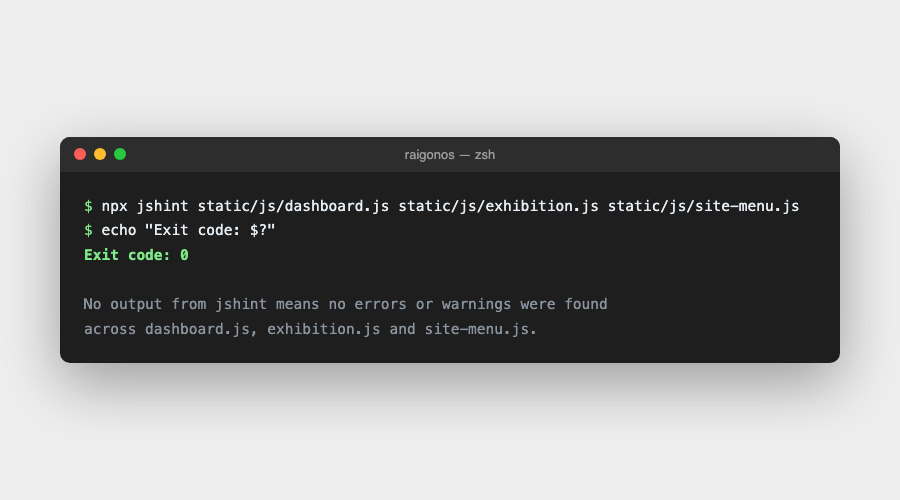
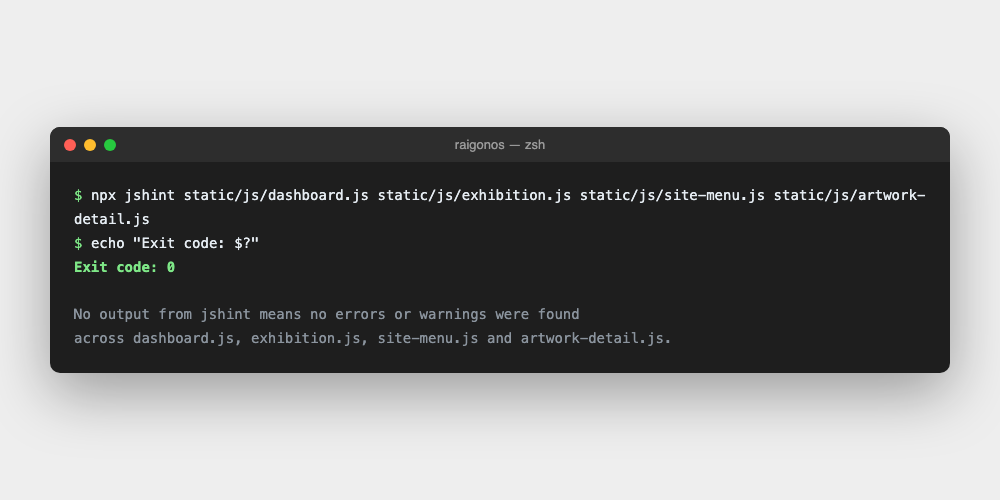
artwork_detail: move the arrow-key nav script to static/js/
It was real navigation logic sitting inline in the template, unlike the
tiny inline scripts in <head> that exist specifically to avoid a
theme-flash before first paint. Linted clean with the other three JS
files (0 errors, 0 warnings).

Changed region(s): [[0.0311, 0.24, 0.9644, 0.75]]

diff --git a/gallery/templates/gallery/artwork_detail.html b/gallery/templates/gallery/artwork_detail.html
@@ -1,4 +1,5 @@
 {% extends 'base.html' %}
+{% load static %}
 
 {% block body_class %}public-theme{% endblock %}
 
@@ -53,26 +54,7 @@
 {% endblock %}
 
 {% block extra_js %}
-  <script>
-    // Left / right arrow keys step through the Collection.
-    document.addEventListener('keydown', function (event) {
-      var link;
-
-      if (event.altKey || event.ctrlKey || event.metaKey || event.shiftKey) {
-        return;
-      }
-
-      if (event.key === 'ArrowLeft') {
-        link = document.querySelector('.artwork-arrow-prev');
-      } else if (event.key === 'ArrowRight') {
-        link = document.querySelector('.artwork-arrow-next');
-      }
-
-      if (link) {
-        window.location.href = link.href;
-      }
-    });
-  </script>
+  <script src="{% static 'js/artwork-detail.js' %}"></script>
 {% endblock %}
 
 {% block path_bar %}

diff --git a/static/js/artwork-detail.js b/static/js/artwork-detail.js
@@ -1,0 +1,18 @@
+// Left / right arrow keys step through the Collection.
+document.addEventListener('keydown', function (event) {
+  var link;
+
+  if (event.altKey || event.ctrlKey || event.metaKey || event.shiftKey) {
+    return;
+  }
+
+  if (event.key === 'ArrowLeft') {
+    link = document.querySelector('.artwork-arrow-prev');
+  } else if (event.key === 'ArrowRight') {
+    link = document.querySelector('.artwork-arrow-next');
+  }
+
+  if (link) {
+    window.location.href = link.href;
+  }
+});

diff --git a/TESTING.md b/TESTING.md
@@ -111,7 +111,7 @@ Linted with [JSHint](https://jshint.com) (`v2.13.6`, run via `npx jshint`)
 against every custom JS file:
 
 ```bash
-npx jshint static/js/dashboard.js static/js/exhibition.js static/js/site-menu.js
+npx jshint static/js/dashboard.js static/js/exhibition.js static/js/site-menu.js static/js/artwork-detail.js
 ```
 
 | File | Result |
@@ -119,6 +119,7 @@ npx jshint static/js/dashboard.js static/js/exhibition.js static/js/site-menu.js
 | `static/js/dashboard.js` | 0 errors, 0 warnings |
 | `static/js/exhibition.js` | 0 errors, 0 warnings |
 | `static/js/site-menu.js` | 0 errors, 0 warnings |
+| `static/js/artwork-detail.js` | 0 errors, 0 warnings |
 
 ![JSHint run, exit code 0](documentation/validation/jshint-terminal.png)
 
